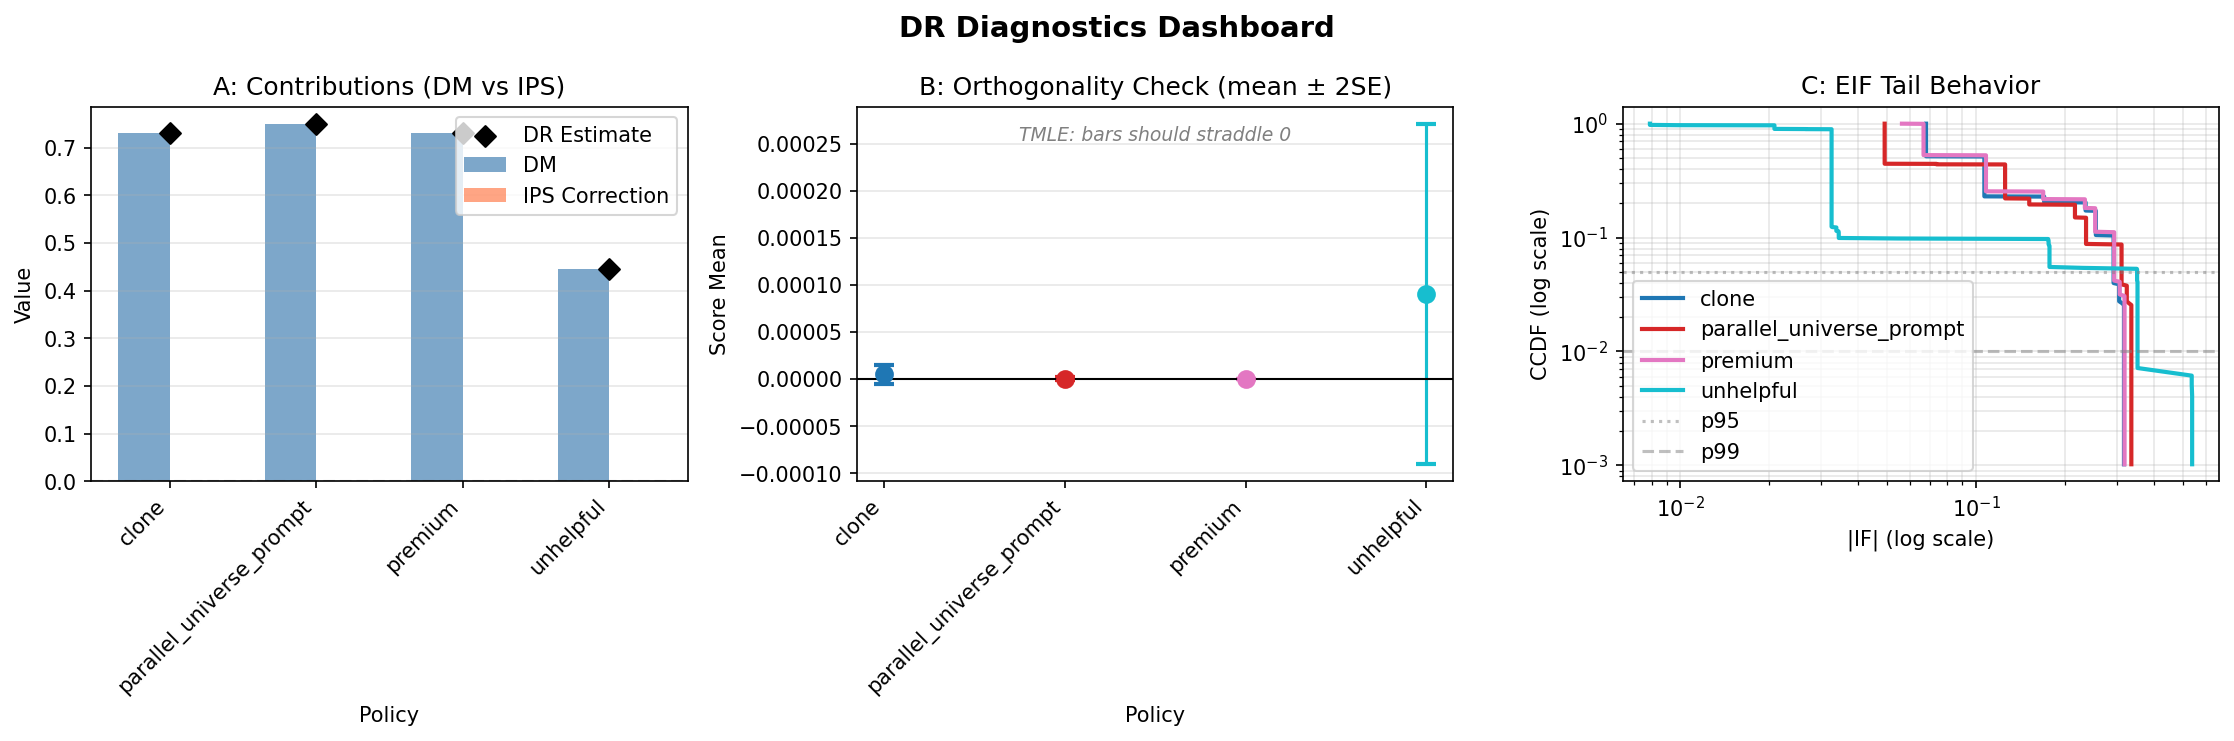
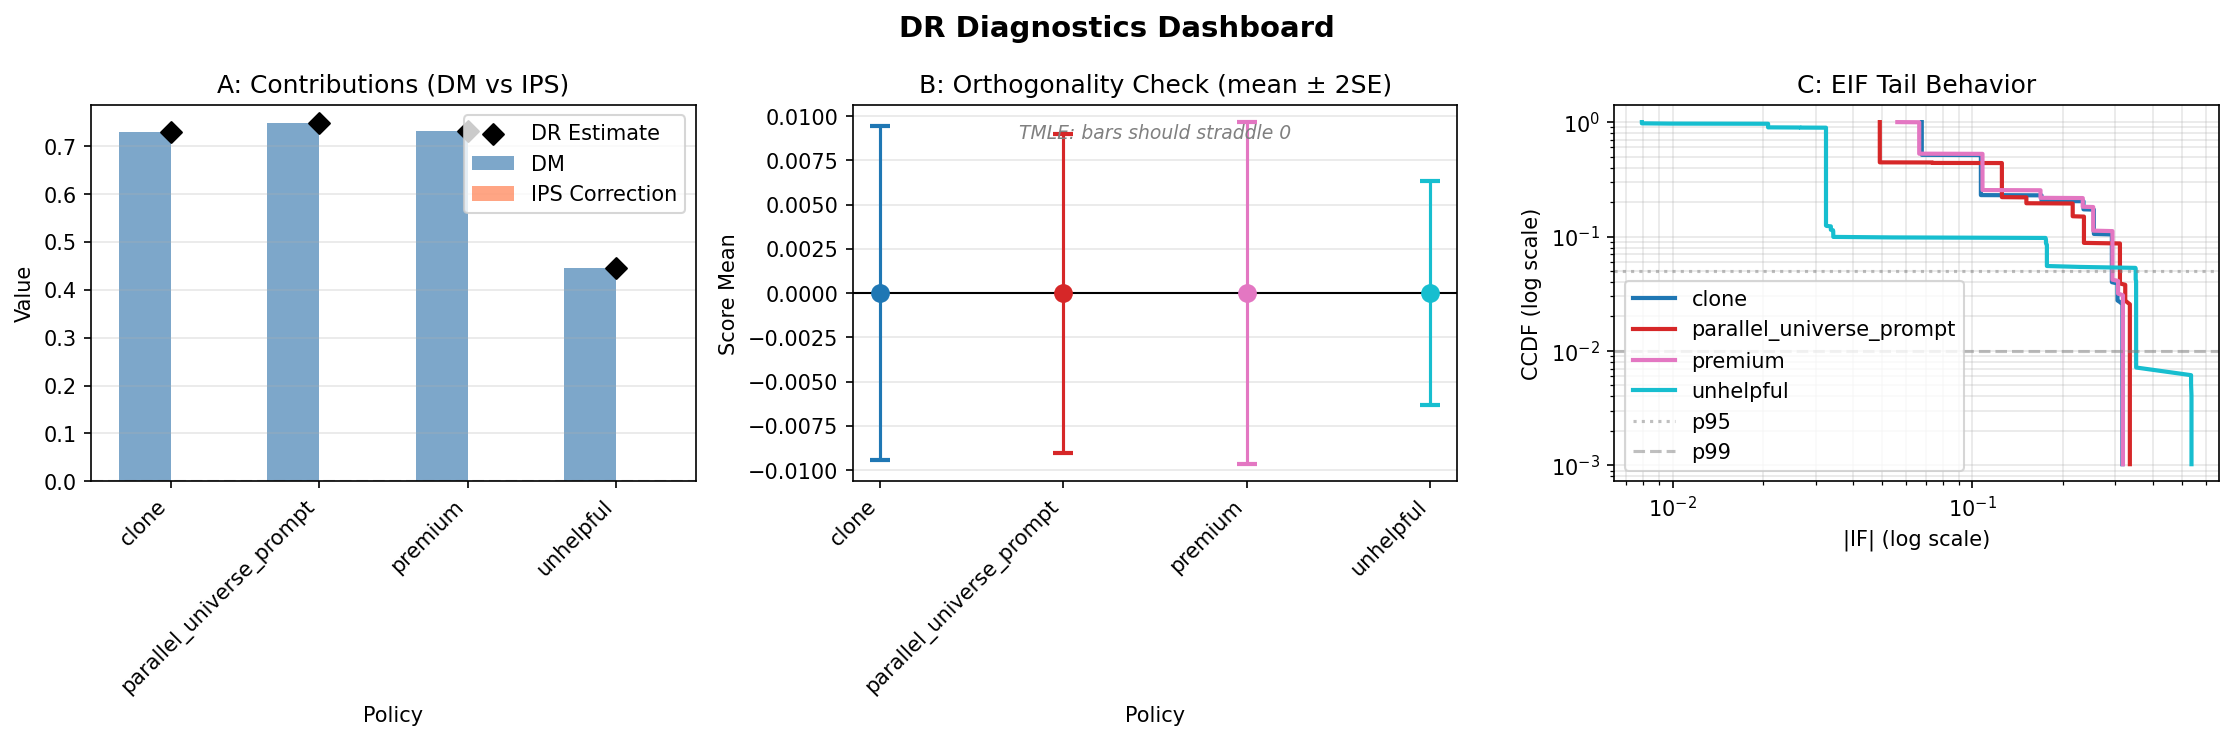
fix: Store influence functions by default and make DR dashboard robust
Changes:
- Changed store_influence default from False to True in DR estimators
- Added graceful handling of missing score fields in DR dashboard
- Fixed indentation issues in dashboard plotting code
- Dashboard now shows informative message when influence functions aren't available
- All dashboard plots now generate successfully

This ensures we don't fail silently and always have complete diagnostics for DR methods.

🤖 Generated with [Claude Code](https://claude.ai/code)

diff --git a/cje/visualization/dashboards.py b/cje/visualization/dashboards.py
@@ -689,43 +689,64 @@ def plot_dr_dashboard(
     # Panel B: Orthogonality check
     ax = axes[1]
 
-    for i, policy in enumerate(policies):
-        diag = dr_diags[policy]
-        score_mean = diag["score_mean"]
-        score_se = diag["score_se"]
+    # Check if we have score information (requires influence functions)
+    has_scores = any("score_mean" in dr_diags[p] for p in policies)
 
-        # Plot point with error bars (2 SE)
-        ax.errorbar(
-            i,
-            score_mean,
-            yerr=2 * score_se,
-            fmt="o",
-            color=colors[i],
-            markersize=8,
-            capsize=5,
-            capthick=2,
-            label=policy,
+    if not has_scores:
+        # No scores available - show informative message
+        ax.text(
+            0.5,
+            0.5,
+            "Score test unavailable\n(influence functions not stored)",
+            transform=ax.transAxes,
+            ha="center",
+            va="center",
+            fontsize=12,
+            color="gray",
+            style="italic",
         )
+        ax.set_xlim(0, 1)
+        ax.set_ylim(0, 1)
+        ax.axis("off")
+        ax.set_title("B: Orthogonality Check (unavailable)")
+    else:
+        for i, policy in enumerate(policies):
+            diag = dr_diags[policy]
+            score_mean = diag.get("score_mean", 0.0)
+            score_se = diag.get("score_se", 0.0)
 
-        # Add p-value annotation
-        p_val = diag["score_p"]
-        if p_val < 0.05:
-            ax.text(
+            # Plot point with error bars (2 SE)
+            ax.errorbar(
                 i,
-                score_mean + 2.5 * score_se,
-                f"p={p_val:.3f}",
-                ha="center",
-                fontsize=8,
-                color="red",
+                score_mean,
+                yerr=2 * score_se,
+                fmt="o",
+                color=colors[i],
+                markersize=8,
+                capsize=5,
+                capthick=2,
+                label=policy,
             )
 
-    ax.axhline(y=0, color="black", linestyle="-", linewidth=1)
-    ax.set_xlabel("Policy")
-    ax.set_ylabel("Score Mean")
-    ax.set_title("B: Orthogonality Check (mean ± 2SE)")
-    ax.set_xticks(range(n_policies))
-    ax.set_xticklabels(policies, rotation=45, ha="right")
-    ax.grid(axis="y", alpha=0.3)
+            # Add p-value annotation
+            p_val = diag.get("score_p", 1.0)
+            if p_val < 0.05:
+                ax.text(
+                    i,
+                    score_mean + 2.5 * score_se,
+                    f"p={p_val:.3f}",
+                    ha="center",
+                    fontsize=8,
+                    color="red",
+                )
+
+        ax.axhline(y=0, color="black", linestyle="-", linewidth=1)
+        ax.set_xlabel("Policy")
+        ax.set_ylabel("Score Mean")
+        ax.set_title("B: Orthogonality Check (mean ± 2SE)")
+        ax.set_xticks(range(n_policies))
+        ax.set_xticklabels(policies, rotation=45, ha="right")
+        ax.grid(axis="y", alpha=0.3)
 
     # Add note for TMLE
     if estimation_result.method == "tmle":
@@ -821,17 +842,36 @@ def plot_dr_dashboard(
 
     plt.tight_layout()
 
-    # Compute summary metrics
-    summary_metrics = {
-        "worst_if_tail_ratio": max(d["if_tail_ratio_99_5"] for d in dr_diags.values()),
-        "best_r2_oof": max(d["r2_oof"] for d in dr_diags.values()),
-        "worst_r2_oof": min(d["r2_oof"] for d in dr_diags.values()),
-        "avg_residual_rmse": np.mean([d["residual_rmse"] for d in dr_diags.values()]),
-    }
+    # Compute summary metrics (handle missing fields gracefully)
+    summary_metrics = {}
+
+    # IF tail ratios
+    if_tail_ratios = [d.get("if_tail_ratio_99_5", 0.0) for d in dr_diags.values()]
+    if if_tail_ratios:
+        summary_metrics["worst_if_tail_ratio"] = max(if_tail_ratios)
+
+    # R² values
+    r2_values = [d.get("r2_oof", np.nan) for d in dr_diags.values() if "r2_oof" in d]
+    if r2_values and not all(np.isnan(r2_values)):
+        valid_r2 = [r for r in r2_values if not np.isnan(r)]
+        if valid_r2:
+            summary_metrics["best_r2_oof"] = max(valid_r2)
+            summary_metrics["worst_r2_oof"] = min(valid_r2)
+
+    # RMSE values
+    rmse_values = [
+        d.get("residual_rmse", np.nan)
+        for d in dr_diags.values()
+        if "residual_rmse" in d
+    ]
+    if rmse_values and not all(np.isnan(rmse_values)):
+        valid_rmse = [r for r in rmse_values if not np.isnan(r)]
+        if valid_rmse:
+            summary_metrics["avg_residual_rmse"] = np.mean(valid_rmse)
 
     if estimation_result.method == "tmle":
-        summary_metrics["tmle_max_abs_score"] = max(
-            abs(d["score_mean"]) for d in dr_diags.values()
-        )
+        score_means = [abs(d.get("score_mean", 0.0)) for d in dr_diags.values()]
+        if score_means:
+            summary_metrics["tmle_max_abs_score"] = max(score_means)
 
     return fig, summary_metrics

diff --git a/cje/estimators/dr_base.py b/cje/estimators/dr_base.py
@@ -108,8 +108,8 @@ class DREstimator(BaseCJEEstimator):
         self._fresh_draws: Dict[str, FreshDrawDataset] = {}
         self._outcome_fitted = False
 
-        # Influence function storage (default False to save memory, can be enabled for diagnostics)
-        self.store_influence = kwargs.pop("store_influence", False)
+        # Influence function storage (default True for proper diagnostics)
+        self.store_influence = kwargs.pop("store_influence", True)
         self._influence_functions: Dict[str, np.ndarray] = {}
 
         # Store components for diagnostics
